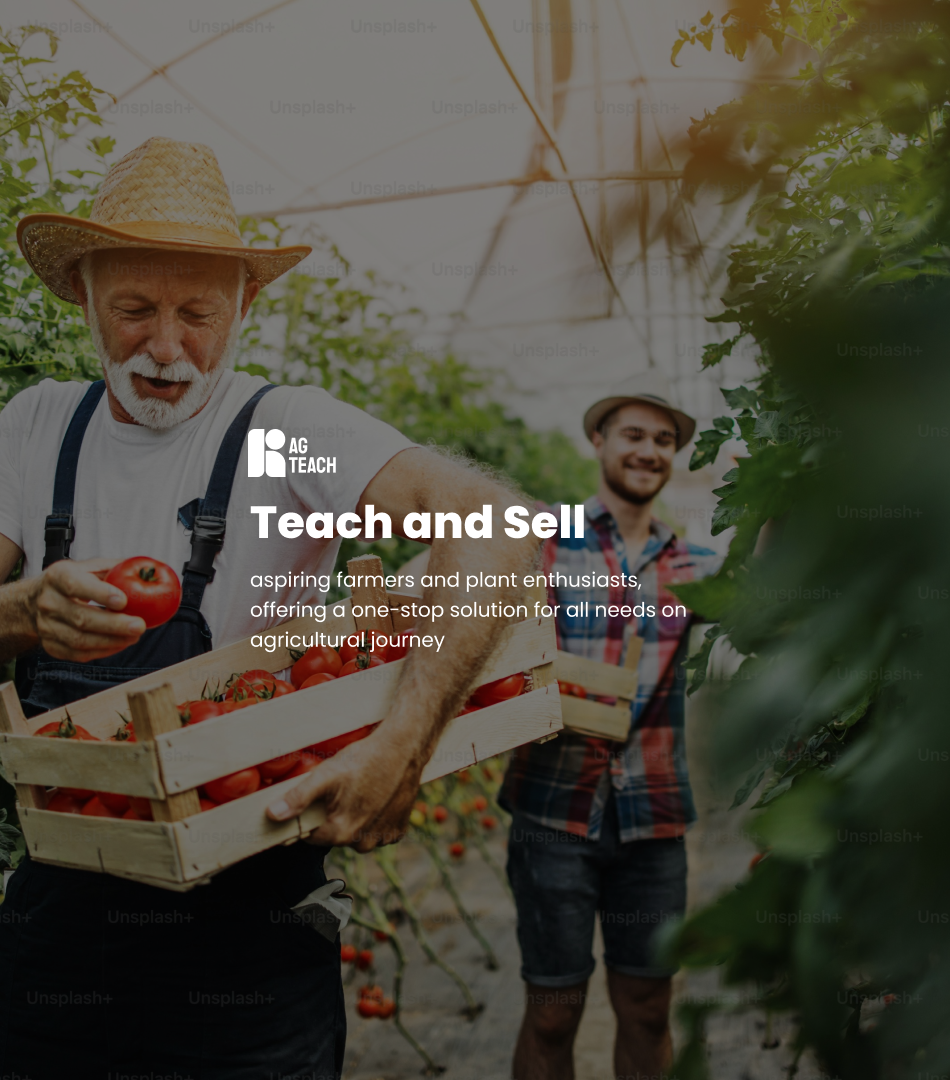
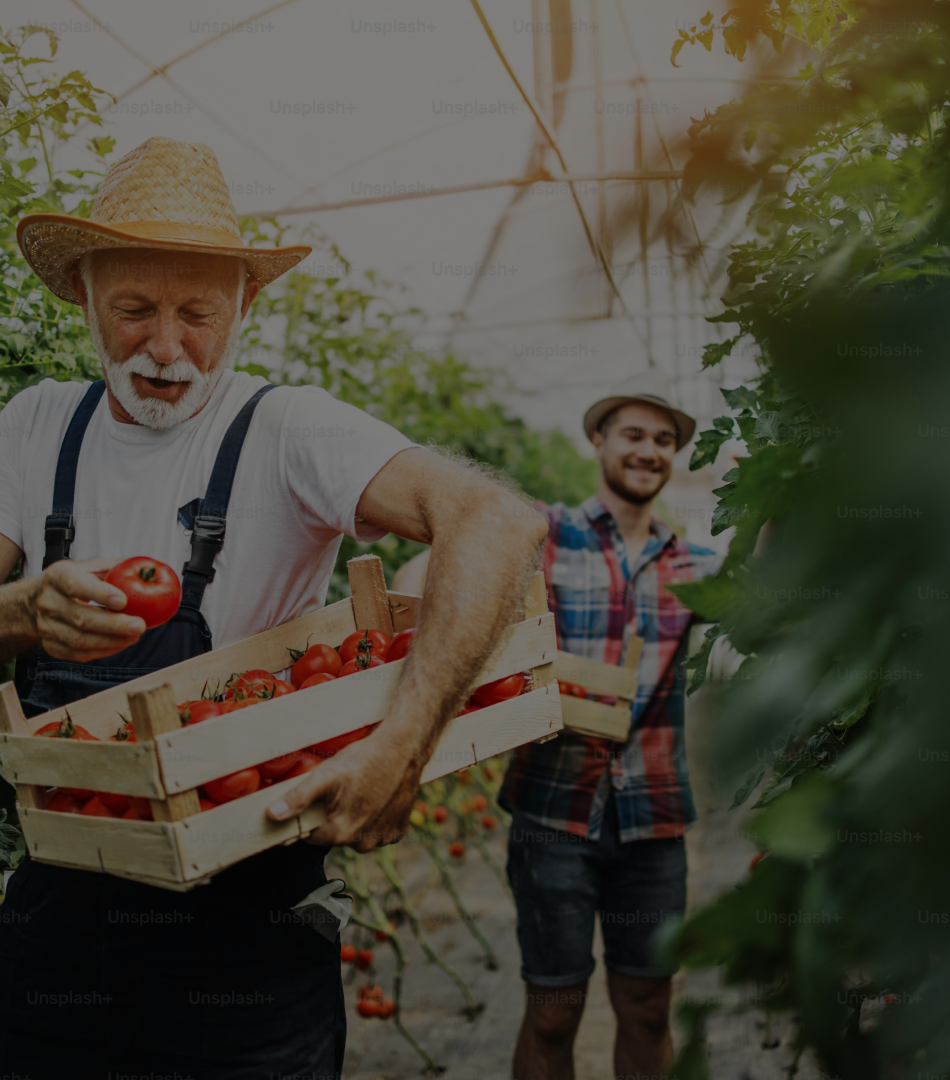
feat-login: adding fixed height to the img

Changed region(s): [[0.2442, 0.3972, 0.7326, 0.6111]]

diff --git a/src/pages/Login.jsx b/src/pages/Login.jsx
@@ -10,6 +10,7 @@ import loginImg from "./../assets/login/login-img.png";
 import {
   Button,
   Checkbox,
+  Container,
   FormControl,
   FormControlLabel,
   Stack,
@@ -31,10 +32,18 @@ function LoginPage() {
     event.preventDefault();
   };
 
-  console.log(theme.palette.grey);
   return (
-    <Stack direction="row" justify="center" alignItems="center" spacing="260px">
-      <img src={loginImg} alt="login-img" />
+    <Stack
+      direction="row"
+      justify="center"
+      height="100%"
+      alignItems="center"
+      spacing="10%"
+    >
+      <div>
+        <img src={loginImg} alt="login-img" style={{ height: "100vh" }} />
+      </div>
+
       <Stack>
         <div style={{ textAlign: "center" }}>
           <h1>Welcome back Instructor</h1>
@@ -86,7 +95,7 @@ function LoginPage() {
             Login
           </Button>
           <p>
-            Need an account?<a href="#">Create one</a>
+            Need an account ? <a href="#">Create one</a>
           </p>
         </form>
       </Stack>

diff --git a/src/App.test.js b/src/App.test.js
@@ -1,7 +1,7 @@
-import { render, screen } from '@testing-library/react';
-import App from './App';
+import { render, screen } from "@testing-library/react";
+import App from "./App";
 
-test('renders learn react link', () => {
+test("renders learn react link", () => {
   render(<App />);
   const linkElement = screen.getByText(/learn react/i);
   expect(linkElement).toBeInTheDocument();
